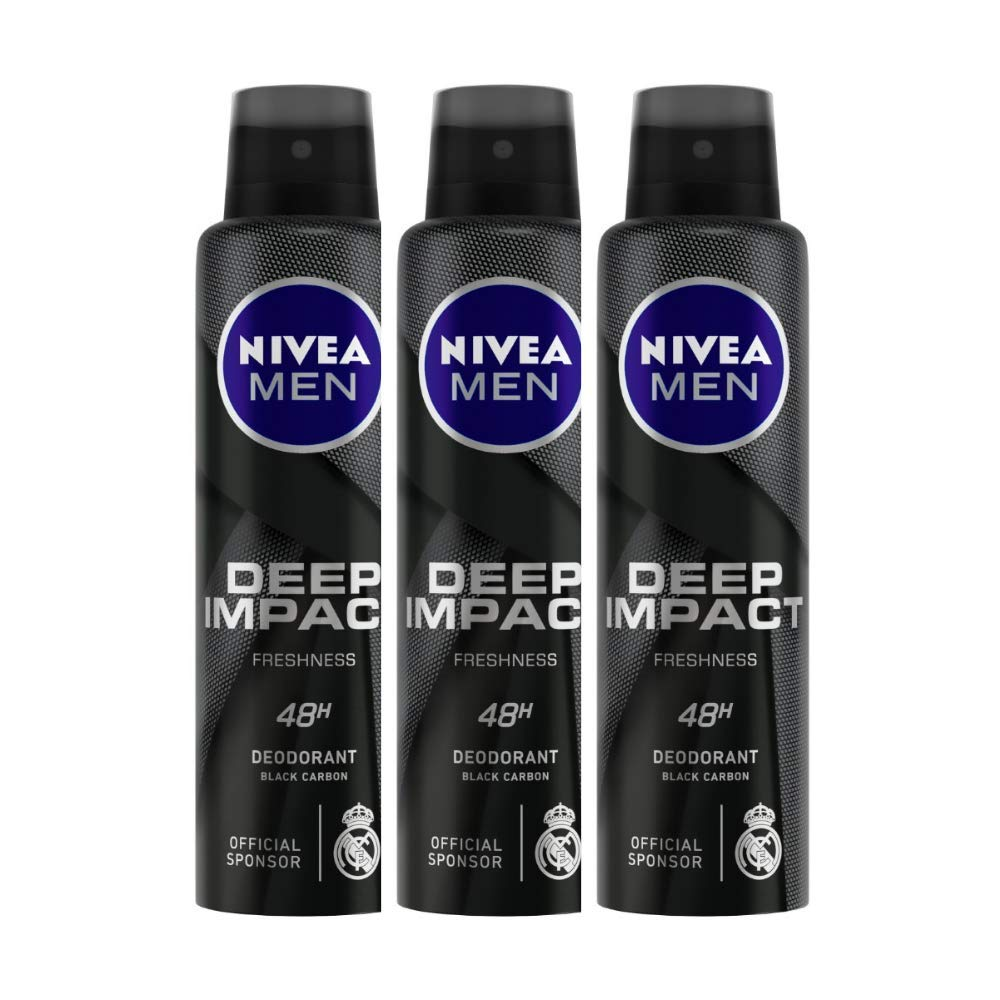
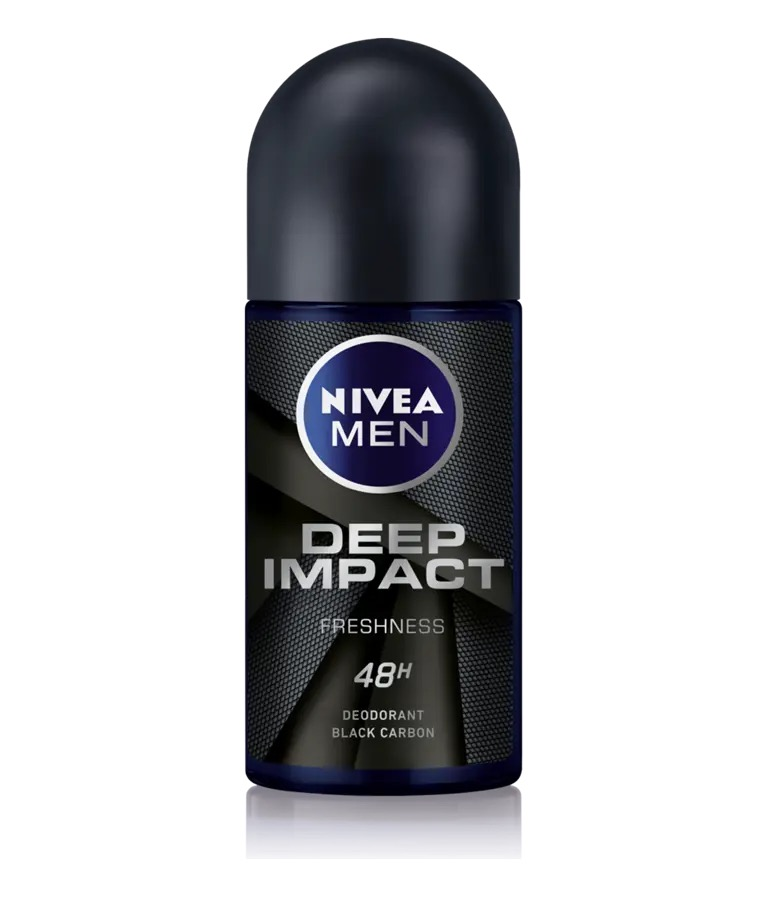
fix(products): update Nivea roll-ons and Nykaa Wanderlust with official standalone packshots

diff --git a/src/data/products.ts b/src/data/products.ts
@@ -375,12 +375,12 @@ export const products: Product[] = [
   {
     id: "p-nykaa-wanderlust-macadamia",
     slug: "nykaa-wanderlust-hawaiian-macadamia-body-wash",
-    name: "Nykaa Wanderlust Hawaiian Macadamia Body Wash",
+    name: "Nykaa Wanderlust Hawaiian Sea Breeze Body Wash",
     brandId: "br-nykaa",
     categoryId: "cat-bath",
-    description: "Nourishing nutty body wash packed with cold-pressed Hawaiian macadamia extract.",
-    details: "Deeply moisturizing creamy lather for dry skin.",
-    ingredients: "Macadamia Oil, Aloe Vera, Botanical Glycerin.",
+    description: "Refreshing coastal shower gel with crisp aqua notes and nourishing coconut for hydrated skin.",
+    details: "Soap-free, gentle lather that leaves skin refreshed, hydrated, and pleasantly scented.",
+    ingredients: "Fresh Aqua Notes, Coconut Extract, Aloe Vera, Vitamin E.",
     size: "300 ml",
     image: "/products/nykaa-wanderlust-macadamia.jpg",
     mrp: 399,
@@ -394,7 +394,7 @@ export const products: Product[] = [
     relatedIds: ["p-nykaa-wanderlust-cherry"],
     gallery: [
       {
-            "label": "Nykaa Wanderlust Macadamia",
+            "label": "Nykaa Wanderlust Hawaiian Sea Breeze",
             "url": "/products/nykaa-wanderlust-macadamia.jpg",
             "tone": "#f8f3ed"
       }
@@ -403,12 +403,12 @@ export const products: Product[] = [
   {
     id: "p-nykaa-wanderlust-green-apple",
     slug: "nykaa-wanderlust-sicilian-green-apple-body-wash",
-    name: "Nykaa Wanderlust Sicilian Green Apple Body Wash",
+    name: "Nykaa Wanderlust Sicilian Sweet Pea Body Wash",
     brandId: "br-nykaa",
     categoryId: "cat-bath",
-    description: "Zesty, crisp green apple scented body cleanser that revives tired skin.",
-    details: "Bright and invigorating daily lather.",
-    ingredients: "Green Apple Extract, Aloe Vera, Vitamin E.",
+    description: "Sweet floral body wash infused with delicate Sicilian sweet pea blossoms and soothing Aloe Vera.",
+    details: "Gentle daily foaming cleanser that keeps skin silky soft and lightly fragrant.",
+    ingredients: "Sweet Pea Flower Extract, Aloe Vera, Vitamin E, Botanical Glycerin.",
     size: "300 ml",
     image: "/products/nykaa-wanderlust-green-apple.jpg",
     mrp: 399,
@@ -422,7 +422,7 @@ export const products: Product[] = [
     relatedIds: ["p-nykaa-wanderlust-cherry"],
     gallery: [
       {
-            "label": "Nykaa Wanderlust Green Apple",
+            "label": "Nykaa Wanderlust Sicilian Sweet Pea",
             "url": "/products/nykaa-wanderlust-green-apple.jpg",
             "tone": "#f2f9f1"
       }
@@ -1971,13 +1971,13 @@ export const products: Product[] = [
   {
     id: "p-nivea-men-deep-impact",
     slug: "nivea-men-deep-impact-deodorant",
-    name: "Nivea Men Deep Impact Deodorant",
+    name: "Nivea Men Deep Impact Roll-On Deodorant",
     brandId: "br-nivea",
     categoryId: "cat-bath",
-    description: "Black Carbon infused antibacterial deodorant spray that protects against odor and delivers an intense woody scent.",
-    details: "0% alcohol formula dermatologically approved for skin comfort.",
+    description: "Black Carbon infused antibacterial 72h deodorant roll-on that protects against odor and delivers an intense woody scent.",
+    details: "0% alcohol formula dermatologically approved for skin comfort and 72-hour freshness.",
     ingredients: "Black Carbon, Premium Woody Parfum, Skin Conditioning Agents.",
-    size: "150 ml",
+    size: "50 ml",
     image: "/products/nivea-men-deep-impact.jpg",
     mrp: 249,
     price: 199,
@@ -1990,7 +1990,7 @@ export const products: Product[] = [
     relatedIds: ["p-nivea-pearl-beauty","p-bellavita-white-oud"],
     gallery: [
       {
-            "label": "Deep Impact Deodorant",
+            "label": "Deep Impact Roll-On Deodorant",
             "url": "/products/nivea-men-deep-impact.jpg",
             "tone": "#ececec"
       }
@@ -1999,13 +1999,13 @@ export const products: Product[] = [
   {
     id: "p-nivea-pearl-beauty",
     slug: "nivea-pearl-and-beauty-deodorant",
-    name: "Nivea Pearl & Beauty Deodorant",
+    name: "Nivea Pearl & Beauty Radiance Roll-On Deodorant",
     brandId: "br-nivea",
     categoryId: "cat-bath",
-    description: "Enriched with precious pearl extracts for smooth underarms while delivering 48 hours of reliable odor protection.",
-    details: "Mild floral fine fragrance with gentle Nivea care. 0% alcohol.",
-    ingredients: "Pearl Extracts, Avocado Oil, Floral Parfum.",
-    size: "150 ml",
+    description: "Enriched with precious pearl extracts for smooth underarms while delivering reliable 72-hour odor protection.",
+    details: "Mild floral fine fragrance with gentle Nivea care. 0% alcohol formula.",
+    ingredients: "White Pearl Extracts, Avocado Oil, Floral Parfum.",
+    size: "50 ml",
     image: "/products/nivea-pearl-beauty.jpg",
     mrp: 249,
     price: 199,
@@ -2018,7 +2018,7 @@ export const products: Product[] = [
     relatedIds: ["p-nivea-men-deep-impact","p-mcaffeine-sweet-escape-lotion"],
     gallery: [
       {
-            "label": "Pearl & Beauty Deodorant",
+            "label": "Pearl & Beauty Radiance Roll-On",
             "url": "/products/nivea-pearl-beauty.jpg",
             "tone": "#fbf2f4"
       }
